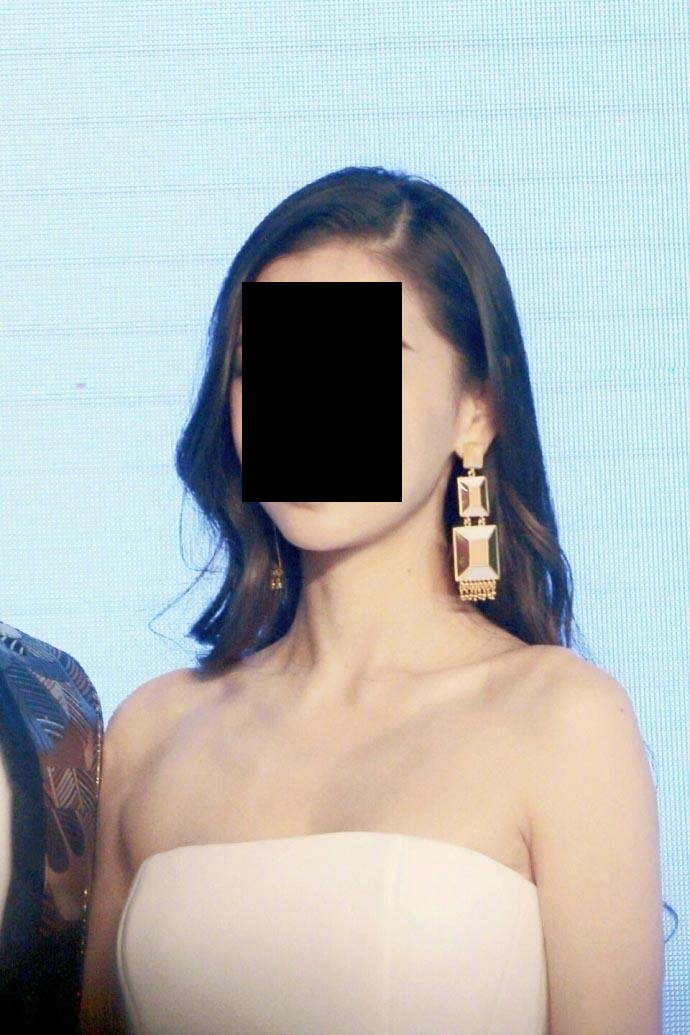
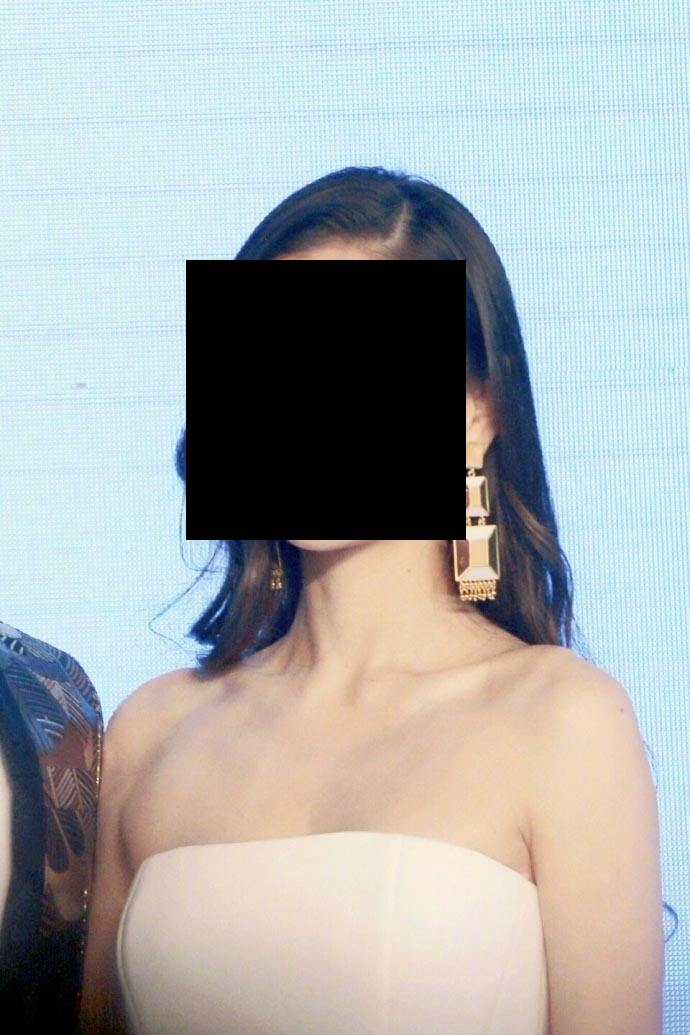
fix

Changed region(s): [[0.2435, 0.2473, 0.7, 0.5256]]

diff --git a/faceMosaic.py b/faceMosaic.py
@@ -39,10 +39,10 @@ class FaceMosaic():
         for (x, y, w, h) in faces:
             # cv2.rectangle(img, (x + 30, y + 30), (x + w - 30, y + h - 30), (255, 0, 0), 2)
             size = int(0.07 * w)
-            w = int(0.62 * w)
-            h = int(0.8 * h)
-            x = int(x + 0.32 * w)
-            y = int(y + 0.1 * h)
+            # w = int(0.62 * w)
+            # h = int(0.8 * h)
+            # x = int(x + 0.32 * w)
+            # y = int(y + 0.1 * h)
             self.mosaic(img, x, y, w, h, size)
             # print(w, h)
         # cv2.imshow('img', img)
